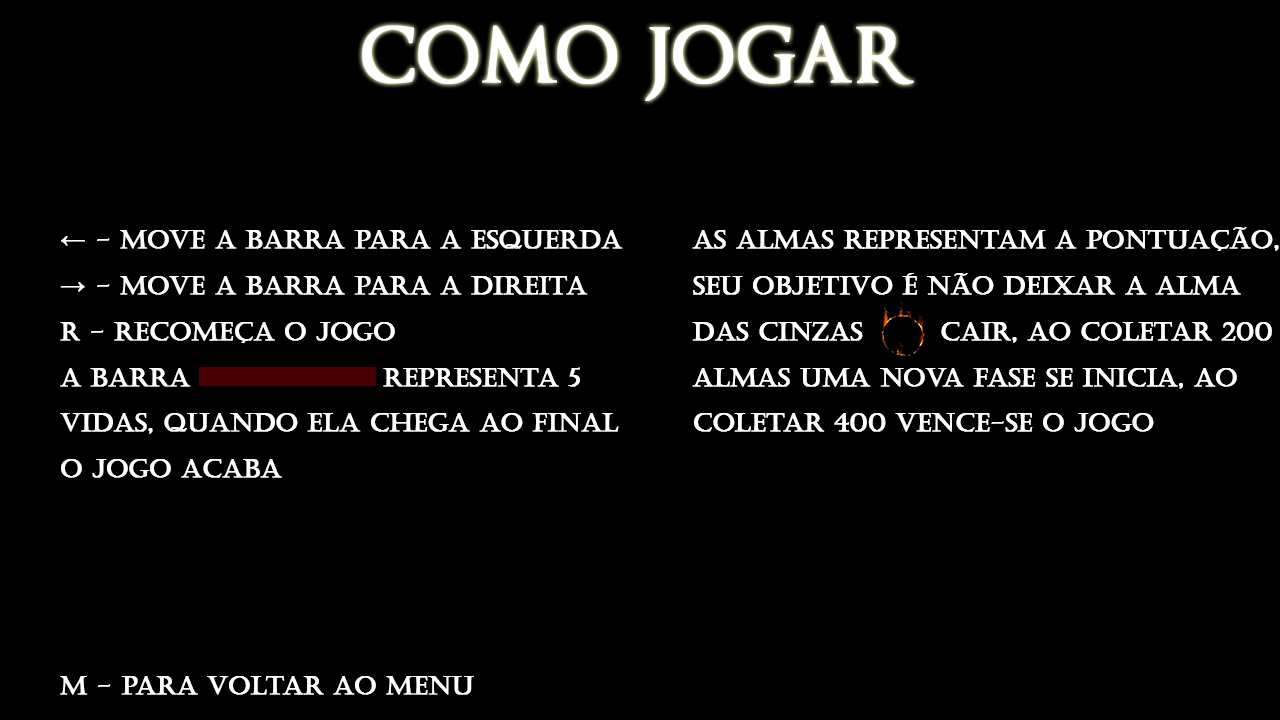
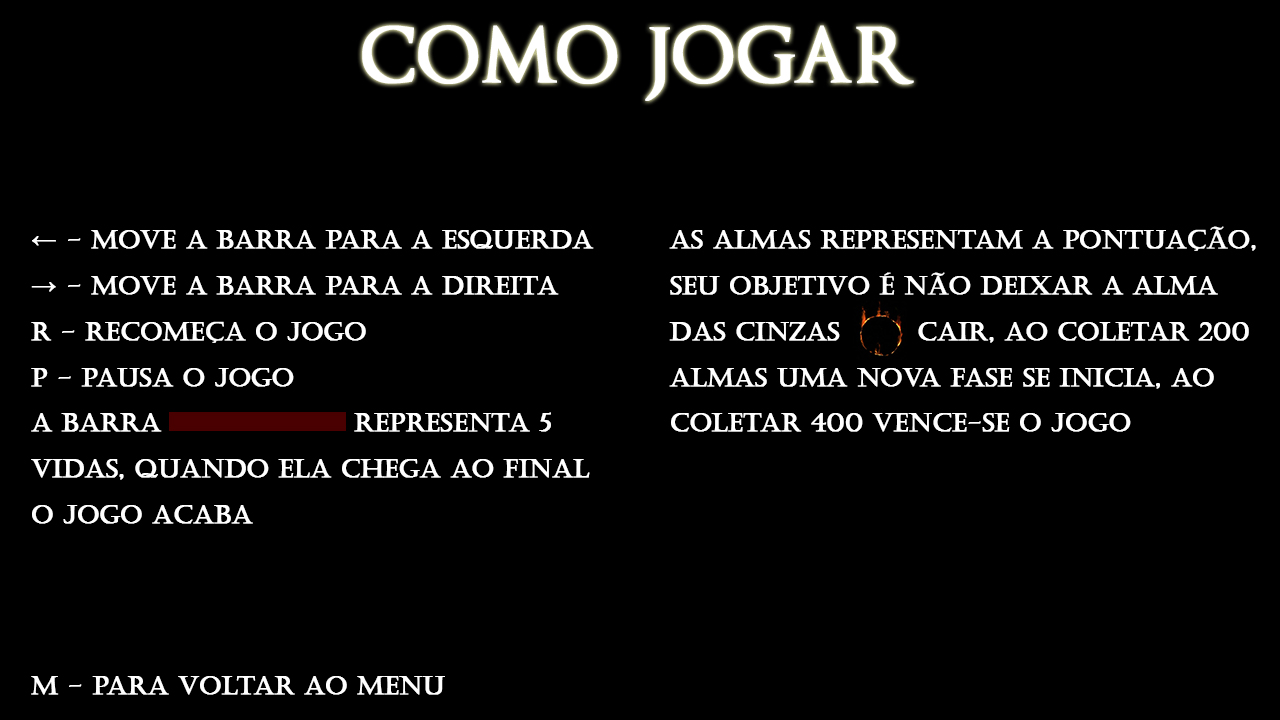
Add files via upload

diff --git a/cenaExemplo1/src/cena/Cena.java b/cenaExemplo1/src/cena/Cena.java
@@ -6,6 +6,7 @@ import com.jogamp.opengl.GLEventListener;
 import com.jogamp.opengl.util.awt.TextRenderer;
 import java.awt.*;
 import java.util.Locale;
+import com.jogamp.opengl.util.texture.Texture;
 
 public class Cena implements GLEventListener{
     private GL2 gl;
@@ -23,6 +24,10 @@ public class Cena implements GLEventListener{
     public int score = 0;
     public int vidas = 5;
     public boolean pause = false;
+    private Texture txtmenu;
+    private Texture txtcj;
+    private Texture txtgo;
+    private Texture txtf1;
 
     public void resetData() {
         bolaX = 0;
@@ -51,6 +56,7 @@ public class Cena implements GLEventListener{
                 break;
 
             case 1:
+                fundof1();
                 fase1();
                 if (score == 40){
                     op = 2;
@@ -75,13 +81,10 @@ public class Cena implements GLEventListener{
                 break;
 
             case 3:
-                gl.glClearColor(0, 0, 0, 1);
-                gl.glClear(GL2.GL_COLOR_BUFFER_BIT);
                 gameOver();
-
                 break;
             case 4:
-                comandos();
+                fundoCJ();
                 break;
 
             default:
@@ -93,50 +96,19 @@ public class Cena implements GLEventListener{
     }
 
     public void menu() {
+        fundoMenu();
         gl.glPushMatrix();
-            desenhaTextoEspecifico(gl, 360, 360, Color.WHITE, "Pong Souls",110);
-            desenhaTexto(gl, 560, 200, Color.WHITE, "1 - COMO JOGAR");
-            desenhaTexto(gl, 560, 150, Color.WHITE, "2 - CRÉDITOS");
-            desenhaTexto(gl, 540, 50, Color.WHITE, "Aperte S para INICIAR!");
+            desenhaTexto(gl, 500, 50, Color.WHITE, "Aperte S para INICIAR!");
         gl.glPopMatrix();
-            gl.glLineWidth(10.0f);
-            gl.glColor3f(1f, 1f, 1f);
-            gl.glBegin(GL2.GL_LINE_LOOP);
-            gl.glVertex2f(-1f, -0.9999f);
-            gl.glVertex2f(1, -1);
-            gl.glVertex2f(1, 1);
-            gl.glVertex2f(-0.9999f, 1);
         gl.glEnd();
-    }
-
-    public void comandos() {
-        gl.glPushMatrix();
-            desenhaTextoEspecifico(gl, 380, 650, Color.WHITE, "COMO JOGAR", 80);
-            desenhaTexto(gl, 50, 500, Color.WHITE, "← - MOVE A BARRA PARA A ESQUERDA");
-            desenhaTexto(gl, 50, 450, Color.WHITE, "→ - MOVE A BARRA PARA A DIREITA");
-            desenhaTexto(gl, 50, 400, Color.WHITE, "R - RECOMEÇA O JOGO");
-            desenhaTexto(gl, 50, 350, Color.WHITE, "A BARRA              REPRESENTA 5 VIDAS,");
-            desenhaTexto(gl, 50, 300, Color.WHITE, "QUANDO ELA CHEGA AO FINAL O JOGO");
-            desenhaTexto(gl, 50, 250, Color.WHITE, "ACABA");
-            desenhaTexto(gl, 50, 20, Color.WHITE, "M - PARA VOLTAR AO MENU");
-        gl.glPopMatrix();
     }
 
     public boolean gameOver(){
         if (vidas <= 0) {
+            fundogo();
             gl.glPushMatrix();
-                desenhaTextoEspecifico(gl, 380, 400, Color.RED, "VOCÊ PERDEU", 80);
-                desenhaTexto(gl, 500, 300, Color.WHITE, "Seu Score total foi de: " + score);
-                desenhaTexto(gl, 500, 250, Color.WHITE, "Aperte R para RECOMEÇAR!");
-                desenhaTexto(gl, 500, 200, Color.WHITE, "Aperte M para voltar ao MENU!");
+                desenhaTexto(gl, 500, 225, Color.WHITE, "Almas coletadas " + score);
             gl.glPopMatrix();
-                gl.glLineWidth(10.0f);
-                gl.glColor3f(1f, 0f, 0f);
-            gl.glBegin(GL2.GL_LINE_LOOP);
-                gl.glVertex2f(-1f, -0.9999f);
-                gl.glVertex2f(1, -1);
-                gl.glVertex2f(1, 1);
-                gl.glVertex2f(-0.9999f, 1);
             gl.glEnd();
         }
         return true;
@@ -259,6 +231,110 @@ public class Cena implements GLEventListener{
             // Tira uma parte da barra da vida
             gl.glTranslatef(0.1f, 0, 0);
         }
+    }
+
+    public void fundoMenu() {
+
+        gl.glEnable(GL2.GL_TEXTURE_2D);
+        txtmenu.enable(gl);
+        txtmenu.bind(gl);
+
+        // Desenhar o objeto
+        gl.glBegin(GL2.GL_QUADS);
+        gl.glTexCoord2f(0.0f, 0.0f);
+        gl.glVertex2f(-1.0f, -1.0f);
+
+        gl.glTexCoord2f(1.0f, 0.0f);
+        gl.glVertex2f(1.0f, -1.0f);
+
+        gl.glTexCoord2f(1.0f, 1.0f);
+        gl.glVertex2f(1.0f, 1.0f);
+
+        gl.glTexCoord2f(0.0f, 1.0f);
+        gl.glVertex2f(-1.0f, 1.0f);
+        gl.glEnd();
+
+        // Desativar a textura
+        txtmenu.disable(gl);
+        gl.glDisable(GL2.GL_TEXTURE_2D);
+    }
+
+    public void fundoCJ() {
+
+        gl.glEnable(GL2.GL_TEXTURE_2D);
+        txtcj.enable(gl);
+        txtcj.bind(gl);
+
+        // Desenhar o objeto
+        gl.glBegin(GL2.GL_QUADS);
+        gl.glTexCoord2f(0.0f, 0.0f);
+        gl.glVertex2f(-1.0f, -1.0f);
+
+        gl.glTexCoord2f(1.0f, 0.0f);
+        gl.glVertex2f(1.0f, -1.0f);
+
+        gl.glTexCoord2f(1.0f, 1.0f);
+        gl.glVertex2f(1.0f, 1.0f);
+
+        gl.glTexCoord2f(0.0f, 1.0f);
+        gl.glVertex2f(-1.0f, 1.0f);
+        gl.glEnd();
+
+        // Desativar a textura
+        txtcj.disable(gl);
+        gl.glDisable(GL2.GL_TEXTURE_2D);
+    }
+
+    public void fundof1() {
+
+        gl.glEnable(GL2.GL_TEXTURE_2D);
+        txtf1.enable(gl);
+        txtf1.bind(gl);
+
+        // Desenhar o objeto
+        gl.glBegin(GL2.GL_QUADS);
+        gl.glTexCoord2f(0.0f, 0.0f);
+        gl.glVertex2f(-1.0f, -1.0f);
+
+        gl.glTexCoord2f(1.0f, 0.0f);
+        gl.glVertex2f(1.0f, -1.0f);
+
+        gl.glTexCoord2f(1.0f, 1.0f);
+        gl.glVertex2f(1.0f, 1.0f);
+
+        gl.glTexCoord2f(0.0f, 1.0f);
+        gl.glVertex2f(-1.0f, 1.0f);
+        gl.glEnd();
+
+        // Desativar a textura
+        txtf1.disable(gl);
+        gl.glDisable(GL2.GL_TEXTURE_2D);
+    }
+
+    public void fundogo() {
+
+        gl.glEnable(GL2.GL_TEXTURE_2D);
+        txtgo.enable(gl);
+        txtgo.bind(gl);
+
+        // Desenhar o objeto
+        gl.glBegin(GL2.GL_QUADS);
+        gl.glTexCoord2f(0.0f, 0.0f);
+        gl.glVertex2f(-1.0f, -1.0f);
+
+        gl.glTexCoord2f(1.0f, 0.0f);
+        gl.glVertex2f(1.0f, -1.0f);
+
+        gl.glTexCoord2f(1.0f, 1.0f);
+        gl.glVertex2f(1.0f, 1.0f);
+
+        gl.glTexCoord2f(0.0f, 1.0f);
+        gl.glVertex2f(-1.0f, 1.0f);
+        gl.glEnd();
+
+        // Desativar a textura
+        txtgo.disable(gl);
+        gl.glDisable(GL2.GL_TEXTURE_2D);
     }
 
     public void randomBola() {
@@ -394,8 +470,15 @@ public class Cena implements GLEventListener{
     public void init(GLAutoDrawable drawable) {
         //dados iniciais da cena
         gl = drawable.getGL().getGL2();
-        textRenderer = new TextRenderer(new Font("Castellar", Font.BOLD,20));
+        textRenderer = new TextRenderer(new Font("Castellar", Font.BOLD,25));
         randomBola();
+        GL2 gl = drawable.getGL().getGL2();
+
+        // Carrega a textura usando a classe Textura
+        txtmenu = Textura.loadTexture(gl, "src/texturas/pong_souls.jpg");
+        txtcj = Textura.loadTexture(gl, "src/texturas/como_jogar.jpg");
+        txtgo = Textura.loadTexture(gl, "src/texturas/gameover.jpg");
+        txtf1 = Textura.loadTexture(gl, "src/texturas/fundo_fase_1pb.jpg");
     }
 
     @Override

diff --git a/cenaExemplo1/src/cena/Textura.java b/cenaExemplo1/src/cena/Textura.java
@@ -1,0 +1,29 @@
+package cena;
+
+import com.jogamp.opengl.GL2;
+import com.jogamp.opengl.util.texture.Texture;
+import com.jogamp.opengl.util.texture.TextureIO;
+
+import java.io.File;
+import java.io.IOException;
+
+public class Textura {
+    public static Texture loadTexture(GL2 gl, String filePath) {
+        try {
+            // Carrega a textura a partir do arquivo
+            File textureFile = new File(filePath);
+            Texture texture = TextureIO.newTexture(textureFile, true);
+
+            // Configurações de filtragem e repetição da textura
+            texture.setTexParameteri(gl, GL2.GL_TEXTURE_MIN_FILTER, GL2.GL_LINEAR);
+            texture.setTexParameteri(gl, GL2.GL_TEXTURE_MAG_FILTER, GL2.GL_LINEAR);
+            texture.setTexParameteri(gl, GL2.GL_TEXTURE_WRAP_S, GL2.GL_REPEAT);
+            texture.setTexParameteri(gl, GL2.GL_TEXTURE_WRAP_T, GL2.GL_REPEAT);
+
+            return texture;
+        } catch (IOException e) {
+            e.printStackTrace();
+            return null;
+        }
+    }
+}

diff --git a/cenaExemplo1/src/cena/KeyBoard.java b/cenaExemplo1/src/cena/KeyBoard.java
@@ -31,8 +31,10 @@ public abstract class KeyBoard implements KeyListener {
                 break;
 
             case KeyEvent.VK_M:
-                cena.resetData();
-                cena.op = 0;
+                if (cena.pause || cena.op == 4 || cena.op == 3) {
+                    cena.resetData();
+                    cena.op = 0;
+                }
                 break;
 
             case KeyEvent.VK_S:
